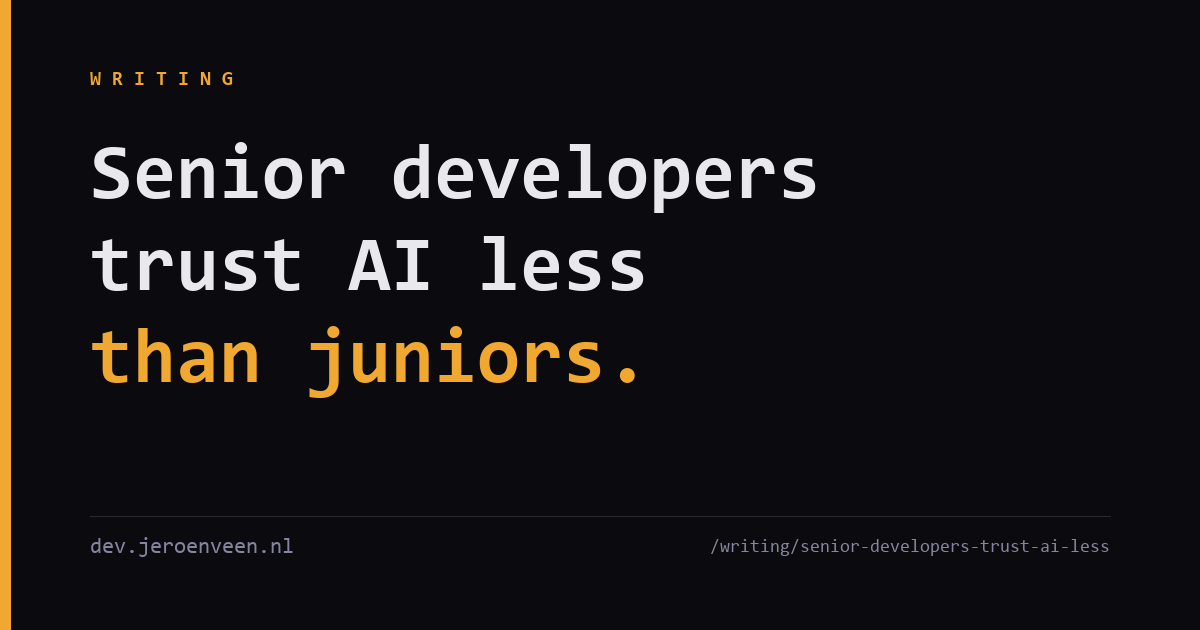
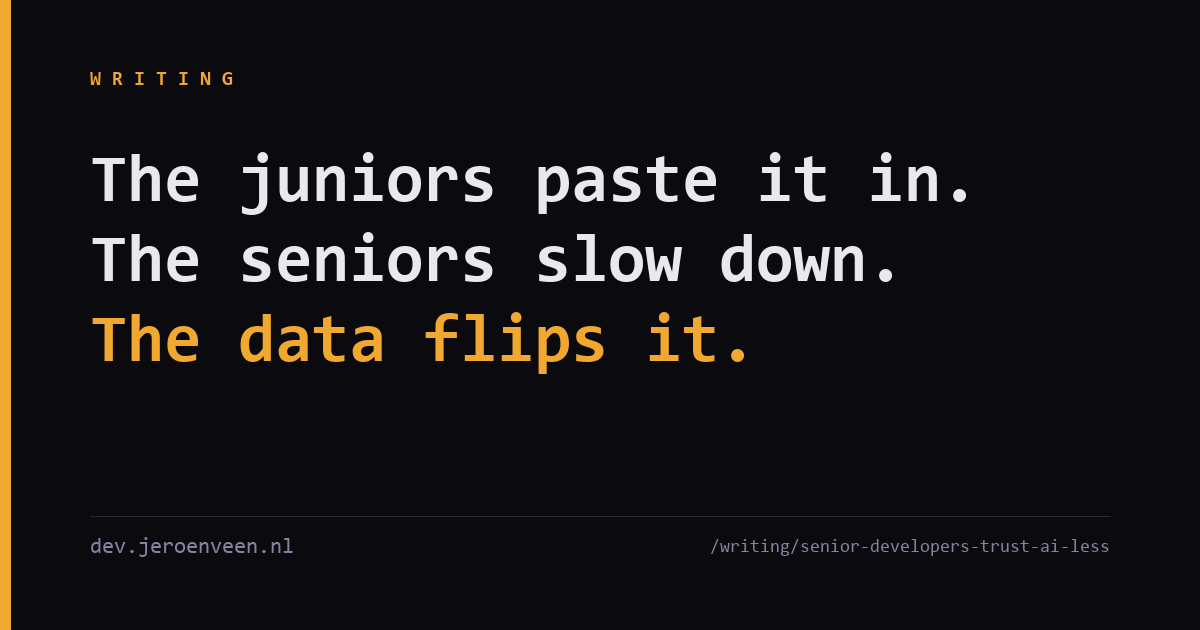
content: sharpen senior-trust article and replace cover image
Restructured to lead with the genuinely surprising finding: METR's 39pp
gap between measured slowdown (-19%) and felt speedup (+20%). Survey
data (JetBrains, Stack Overflow) follows as confirming pattern at scale
rather than as the lead. The original observational opening ("I notice
the senior engineers...") is kept as audience filter but the
"obvious-feeling" data ranking has been re-sequenced so the article's
non-obvious payload lands earlier.

Cover image rebuilt from a JetBrains-data-visualisation (which read
like a JetBrains research card, not Jeroen's article) to a body-line
poster: "The juniors paste it in. / The seniors slow down. / The data
flips it." Same template family as the splitting cover, third line
amber for emphasis.

Sources block re-ordered alphabetically by first author/org (Becker,
JetBrains, Stack Overflow), which also matches the new appearance
order.

Changed region(s): [[0.0617, 0.3619, 0.74, 0.6333], [0.0617, 0.2111, 0.8017, 0.3619]]

diff --git a/scripts/gen-social-image.py b/scripts/gen-social-image.py
@@ -40,18 +40,18 @@ def render(out_path: Path) -> None:
     label_font = font(20, bold=True)
     draw.text((PAD_L, PAD_T), "W R I T I N G", font=label_font, fill=AMBER)
 
-    # Headline: the strongest line, broken across three lines for poster rhythm
-    head_size = 78
+    # Headline: three body-line observations from the article, third line in amber
+    head_size = 68
     head_font = font(head_size, bold=True)
     line_h = int(head_size * 1.18)
     headline = [
-        "Senior developers",
-        "trust AI less",
-        "than juniors.",
+        "The juniors paste it in.",
+        "The seniors slow down.",
+        "The data flips it.",
     ]
-    head_y = PAD_T + 70
+    head_y = PAD_T + 80
     for i, line in enumerate(headline):
-        # The third line gets the amber for emphasis ("Validation is not.")
+        # The third line gets the amber for emphasis (mirrors the splitting cover pattern)
         fill = AMBER if i == 2 else TEXT
         draw.text((PAD_L, head_y + i * line_h), line, font=head_font, fill=fill)
 

diff --git a/drafts/senior-developers-trust-ai-less.md b/drafts/senior-developers-trust-ai-less.md
@@ -15,15 +15,15 @@
 
 I notice the senior engineers I work with often trust AI output less than the juniors do. They read what the agent produced, recognise that it looks plausible, and slow down. The juniors paste it in. For a while I assumed this was the standard generational story: older devs are slower with new tools. The data does not support that read.
 
-[JetBrains' 2025 Developer Ecosystem survey](https://www.jetbrains.com/lp/devecosystem-2025/) of 24,500 software developers found that those with ten or more years of experience report low trust in AI output 61% of the time. Those with zero to two years of experience report low trust 48% of the time. [Stack Overflow's 2025 Developer Survey](https://survey.stackoverflow.co/2025), separately, with 49,000 respondents, found that 46% of developers actively distrust AI output accuracy. Of the experienced developers in the sample, only 2.6% reported "highly trusting" AI outputs and 20% reported "highly distrusting" them: the lowest trust and highest distrust of any experience bracket.
+The clearest measurement comes from [METR's 2025 study](https://arxiv.org/abs/2507.09089). They put 16 experienced developers on tasks in their own codebases, with and without AI assistance. The contributors finished 19% slower with AI. After the study they reported feeling 20% faster. That is a 39 percentage point gap between what was measured and what was felt, in people who do this work full-time, on code they wrote themselves. The calibration is happening, but slowly, and not where the user can feel it.
+
+The pattern shows up at scale too. [JetBrains' 2025 Developer Ecosystem survey](https://www.jetbrains.com/lp/devecosystem-2025/) of 24,500 software developers found that those with ten or more years of experience report low trust in AI output 61% of the time. Those with zero to two years of experience report low trust 48% of the time. [Stack Overflow's 2025 Developer Survey](https://survey.stackoverflow.co/2025), separately, with 49,000 respondents, found that 46% of developers actively distrust AI output accuracy. Of the experienced developers in the sample, only 2.6% reported "highly trusting" AI outputs and 20% reported "highly distrusting" them: the lowest trust and highest distrust of any experience bracket.
 
 Engineers with more years of practice trust the tool less. That is the opposite of how new tools usually work.
 
 The piece I wrote last week argued that engineering work has decomposed into producing output and validating it, and that validation is the harder of the two. The senior-trust gap is the same observation from a different angle. Seniors trust less because they have validated more, and validation has shown them more. They have seen the plausible-but-wrong code enough times to recognise the pattern in AI output specifically. Juniors have not yet seen enough wrong-looking code in general to develop the calibration.
 
 A small concrete example. Three weeks ago I was reviewing a retrieval function the agent had written for the ese-bot codebase. Plausible. Type-checked. Wrong about which boundary the retrieval was supposed to respect. It took me fifteen minutes to find the error. The generation had taken seconds. The trust calibration in that moment was not about familiarity with AI. It was about familiarity with the failure modes of code that looks right but is not.
-
-The other 2025 study worth pairing with this is [METR's](https://arxiv.org/abs/2507.09089). They put senior open-source contributors on tasks in their own codebases, with and without AI assistance. The contributors were 19% slower with AI. They reported feeling 20% faster. The discrepancy is the senior-trust pattern made visible in stopwatch terms: the calibration is happening, but slowly, and not where the user can feel it.
 
 The conventional take in industry coverage is that AI is a junior-shaped problem. It replaces junior work, and seniors will be fine because they were already fine. The data flips this. AI is most disruptive to the population that knows enough to validate what it produced. Seniors are the ones currently noticing. Juniors will inherit a code base shaped by validation that did not happen.
 
@@ -35,9 +35,9 @@ If you have noticed your own trust in AI output going down rather than up, where
 
 ## Sources
 
+- Becker, J., Rush, N., Barnes, B., & Rein, D. (2025). *Measuring the Impact of Early-2025 AI on Experienced Open-Source Developer Productivity.* arXiv:2507.09089. https://arxiv.org/abs/2507.09089
 - JetBrains. (2025). *State of Developer Ecosystem 2025.* https://www.jetbrains.com/lp/devecosystem-2025/
 - Stack Overflow. (2025). *2025 Developer Survey.* https://survey.stackoverflow.co/2025
-- Becker, J., Rush, N., Barnes, B., & Rein, D. (2025). *Measuring the Impact of Early-2025 AI on Experienced Open-Source Developer Productivity.* arXiv:2507.09089. https://arxiv.org/abs/2507.09089
 
 ---
 